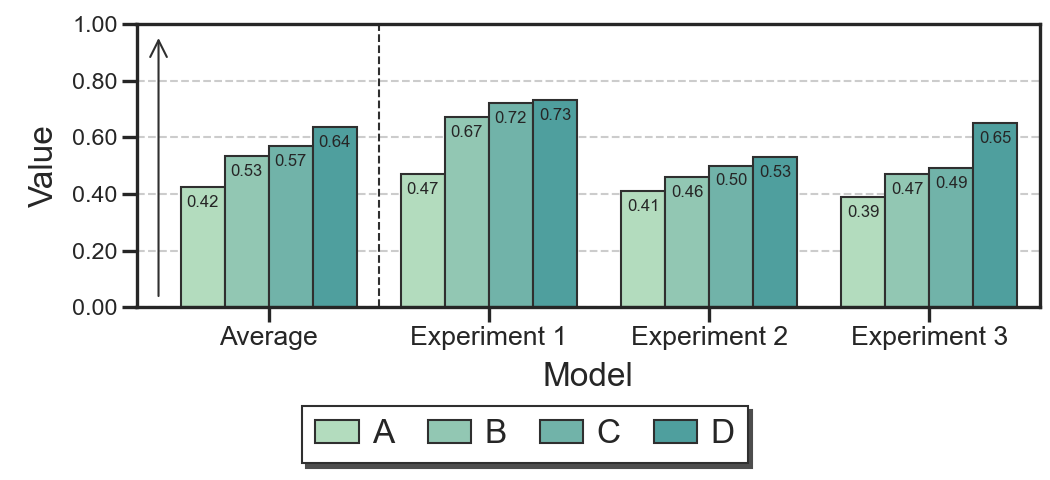
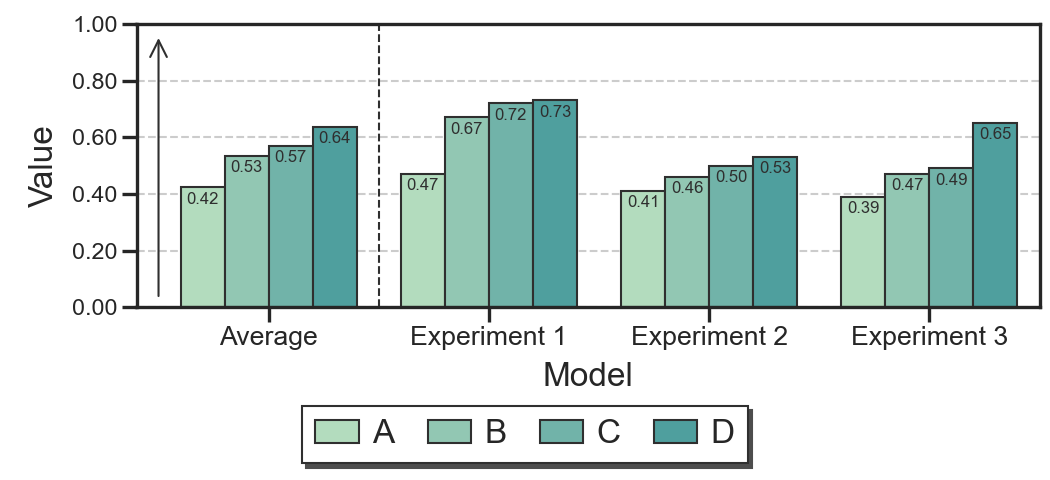
feat: refactor add labels to barplot

diff --git a/segretini_matplottini/utils/plot.py b/segretini_matplottini/utils/plot.py
@@ -1,6 +1,6 @@
 from datetime import datetime
 from pathlib import Path
-from typing import Any, Callable, Optional, Union
+from typing import Any, Callable, Literal, Optional, Union
 
 import matplotlib.pyplot as plt
 import numpy as np
@@ -278,25 +278,116 @@ def add_labels(
             )
 
 
-def add_labels_to_bars(
-    axes: list[Axes],
-    font_size: float = DEFAULT_FONT_SIZE,
+def get_labels_for_bars(
+    ax: Axes,
+    skip_zeros: bool = True,
+    skip_nan: bool = True,
+    skip_value: Optional[float] = None,
+    skip_threshold: float = 1e-6,
+    max_only: bool = False,
     label_format_str: Callable[[Union[float, str]], str] = lambda x: f"{x:.2f}",
-) -> list[Axes]:
-    # Add the value on top of each bar;
-    for ax in axes:
-        for p in ax.patches:
-            if isinstance(p, Rectangle):
-                height = p.get_height()
-                if height > 0 and p.get_width() > 0:
-                    ax.text(
-                        p.get_x() + p.get_width() / 2.0,
-                        height - 0.07,
-                        label_format_str(height),
-                        ha="center",
-                        fontsize=font_size,
-                    )
-    return axes
+) -> list[str]:
+    """
+    Given a barplot (or a plot containing bars), obtain a list of labels representing the value of each bar.
+
+    :param ax: Axis containing the barplot. Patches that are not rectangles are ignored.
+    :param skip_zeros: If True, skip bars with height equal to zero.
+    :param skip_nan: If True, skip bars with NaN height.
+    :param skip_value: If not None, skip bars with height equal to this value.
+    :param skip_threshold: Threshold used to determine if a label's value
+        is close enough to `skip_value` and `skip_zero`.
+    :param max_only: If True, return only the label of the bar with highest value.
+    :param label_format_str: Format of each label, by default use two decimal digits (e.g. 2.10).
+    :return: A list of labels, one for each bar. Bars that have been skipped have an empty string as label.
+    """
+    labels: list[str] = []
+    rectangles = [p for p in ax.patches if isinstance(p, Rectangle)]
+    if max_only:
+        # Simpy obtain the height of the highest bar, and set everything else to empty string;
+        argmax = np.argmax([p.get_height() for p in rectangles])
+        labels = ["" for _ in rectangles]
+        labels[argmax] = label_format_str(rectangles[argmax].get_height())
+        return labels
+    else:
+        # Get the height of each bar, and format it as a label.
+        # Skip it if necessary, adding an empty label.
+        for bar in rectangles:
+            height = bar.get_height()
+            if skip_zeros and np.abs(height) < skip_threshold:
+                labels.append("")
+            elif skip_nan and pd.isna(height):
+                labels.append("")
+            elif skip_value is not None and np.abs(height - skip_value) < skip_threshold:
+                labels.append("")
+            else:
+                labels.append(label_format_str(height))
+    return labels
+
+
+def add_labels_to_bars(
+    ax: Axes,
+    labels: list[str],
+    font_size: float = DEFAULT_FONT_SIZE,
+    rotation: float = 0,
+    label_color: str = "#2f2f2f",
+    location: Literal["above", "below"] = "above",
+    vertical_padding: float = 0.005,
+    do_not_exceed_ylim: bool = True,
+    tolerance_for_ylim: float = 0.05,
+) -> Axes:
+    """
+    Add labels to the top of each bar in a barplot.
+
+    :param ax: Axis containing the barplot. Patches that are not rectangles are ignored.
+    :param labels: List of labels to add. The number of labels must match the number of bars.
+    :param font_size: Font size of the labels
+    :param rotation: Rotation of the labels (e.g. `90` for 90°).
+    :param label_color: Hexadecimal color used for labels.
+    :param location: If "above", add labels above the top of each bar.
+        If "below", add labels below the top of each bar.
+    :param vertical_padding: Vertical padding, as a percentage of the vertical size of the plot.
+    :param do_not_exceed_ylim: If True, labels that would exceed the y-axis limits are added at the limit.
+    :param tolerance_for_ylim: Tolerance used to determine if a label's value is close enough to the y-axis limit,
+        and should be added at the limit. The tolerance is a percentage of the vertical size of the plot.
+        The tolerance is used since values close to the top/bottom would overlap with the border of the plot.
+    :return: The axis containing the barplot, with the labels added.
+    """
+    # Keep only rectangles;
+    rectangles = [p for p in ax.patches if isinstance(p, Rectangle)]
+    # The number of labels and rectangles must match;
+    assert len(rectangles) == len(
+        labels
+    ), f"❌ the number of labels ({len(labels)}) and rectangles ({len(rectangles)}) must match."
+    # Compute the vertical padding using the vertical size of the plot;
+    _vertical_padding = vertical_padding * (ax.get_ylim()[1] - ax.get_ylim()[0])
+    if location == "below":
+        # Invert the padding, and add a bit of extra space to avoid overlapping with the bar;
+        _vertical_padding = -_vertical_padding - 0.01
+    # Get the tolerance for the y-axis limits.
+    # We need a tolerance since values close to the top/bottom would overlap with the border of the plot;
+    _tolerance_for_ylim = tolerance_for_ylim * (ax.get_ylim()[1] - ax.get_ylim()[0])
+    # Add labels
+    for label, bar in zip(labels, rectangles):
+        height = bar.get_height()
+        if do_not_exceed_ylim:
+            y_min, y_max = ax.get_ylim()
+            if height + _tolerance_for_ylim > y_max:
+                height = y_max
+            # Only if the location is below, since if it's above it does not get clipped;
+            elif height - _tolerance_for_ylim < y_min and location == "below":
+                height = y_min
+        ax.text(
+            bar.get_x() + bar.get_width() / 2.0,
+            height + _vertical_padding,
+            label,
+            ha="center",
+            fontsize=font_size,
+            color=label_color,
+            rotation=rotation,
+            va="bottom" if location == "above" else "top",
+            clip_on=False,
+        )
+    return ax
 
 
 def assemble_filenames_to_save_plot(

diff --git a/examples/plot_barplot.py b/examples/plot_barplot.py
@@ -7,6 +7,7 @@ from segretini_matplottini.utils import (
     add_arrow_to_barplot,
     add_labels_to_bars,
     assemble_filenames_to_save_plot,
+    get_labels_for_bars,
     save_plot,
 )
 from segretini_matplottini.utils.constants import DEFAULT_FONT_SIZE
@@ -50,7 +51,7 @@ if __name__ == "__main__":
             "model_4": "D",
         },
     )
-    ax = add_labels_to_bars(axes=[ax], font_size=DEFAULT_FONT_SIZE - 4)[0]
+    ax = add_labels_to_bars(ax=ax, labels=get_labels_for_bars(ax), font_size=DEFAULT_FONT_SIZE - 4, location="below")
     ax = add_arrow_to_barplot(ax=ax, higher_is_better=True)
     save_plot(
         assemble_filenames_to_save_plot(

diff --git a/segretini_matplottini/utils/__init__.py b/segretini_matplottini/utils/__init__.py
@@ -27,6 +27,7 @@ from segretini_matplottini.utils.plot import (  # noqa: F401
     assemble_filenames_to_save_plot,
     fix_label_length,
     get_exp_label,
+    get_labels_for_bars,
     reset_plot_style,
     save_plot,
     update_bars_width,

diff --git a/CHANGELOG.md b/CHANGELOG.md
@@ -18,6 +18,8 @@ Added new `barplot` functions. Creating a barplot is easy, creating a pretty one
 New utilities in `matplotlib.utils`:
 * `add_arrow_to_barplot` adds an up or down arrow to a barplot, to highlight that a higher value or a lower value is better.
 * `create_hex_palette` creates a linear palette starting from a starting and ending color, with the requested number of colors. Just a wrapper around `sns.color_palette`, but easier to use.
+* `get_labels_for_bars` obtains the labels to add on top of the bars in a barplot, representing the height of each bar.
+* `add_labels_to_bars` adds textual labels to a barplot, with options to customize the position and the style of the labels. You can combine it with `get_labels_for_bars` to add labels automatically, or you can manually pass custom labels if to obtain extra control. See `examples/plot_barplot.py` for an example.
 
 ## 2022-10-03
 

diff --git a/README.md b/README.md
@@ -51,7 +51,7 @@ pip install .
     [] add automated tests check
     [] add automated linting check
 [x] revisit save_plot. Take as input a path or a list of paths. And have another function to assemble the paths from root dir, plot name (not as format string), folder date (as format string, e.g Y_M_D) and suffix date (_Y_M_D_H_M_S), extensions
-[] revisit add_labels: create get_labels_for_barplot and add_labels_to_barplot that takes mandatory labels (and checks that num labels == num bars)
+[x] revisit add_labels: create get_labels_for_barplot and add_labels_to_barplot that takes mandatory labels (and checks that num labels == num bars)
 [] create notebook to create good plot from scratch (some barplot)
 [] can we create auto documentation?
 [] update changelog
